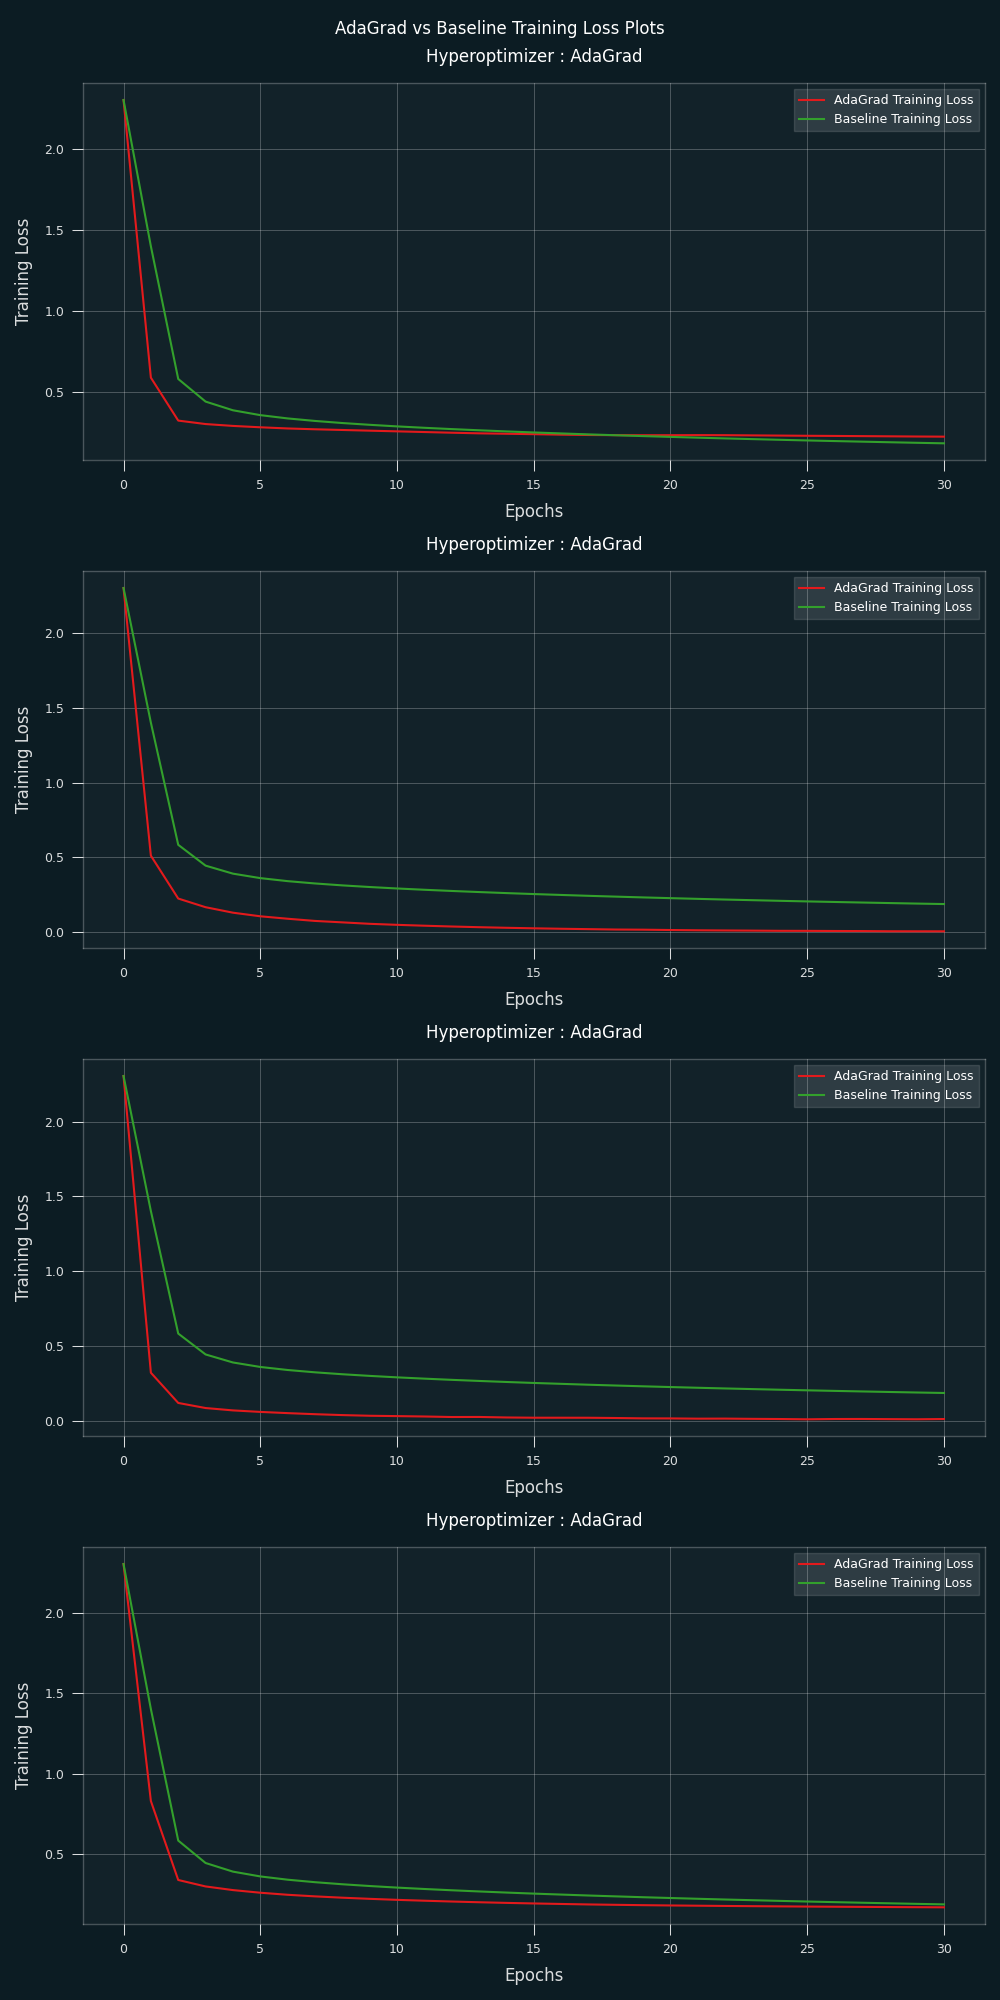
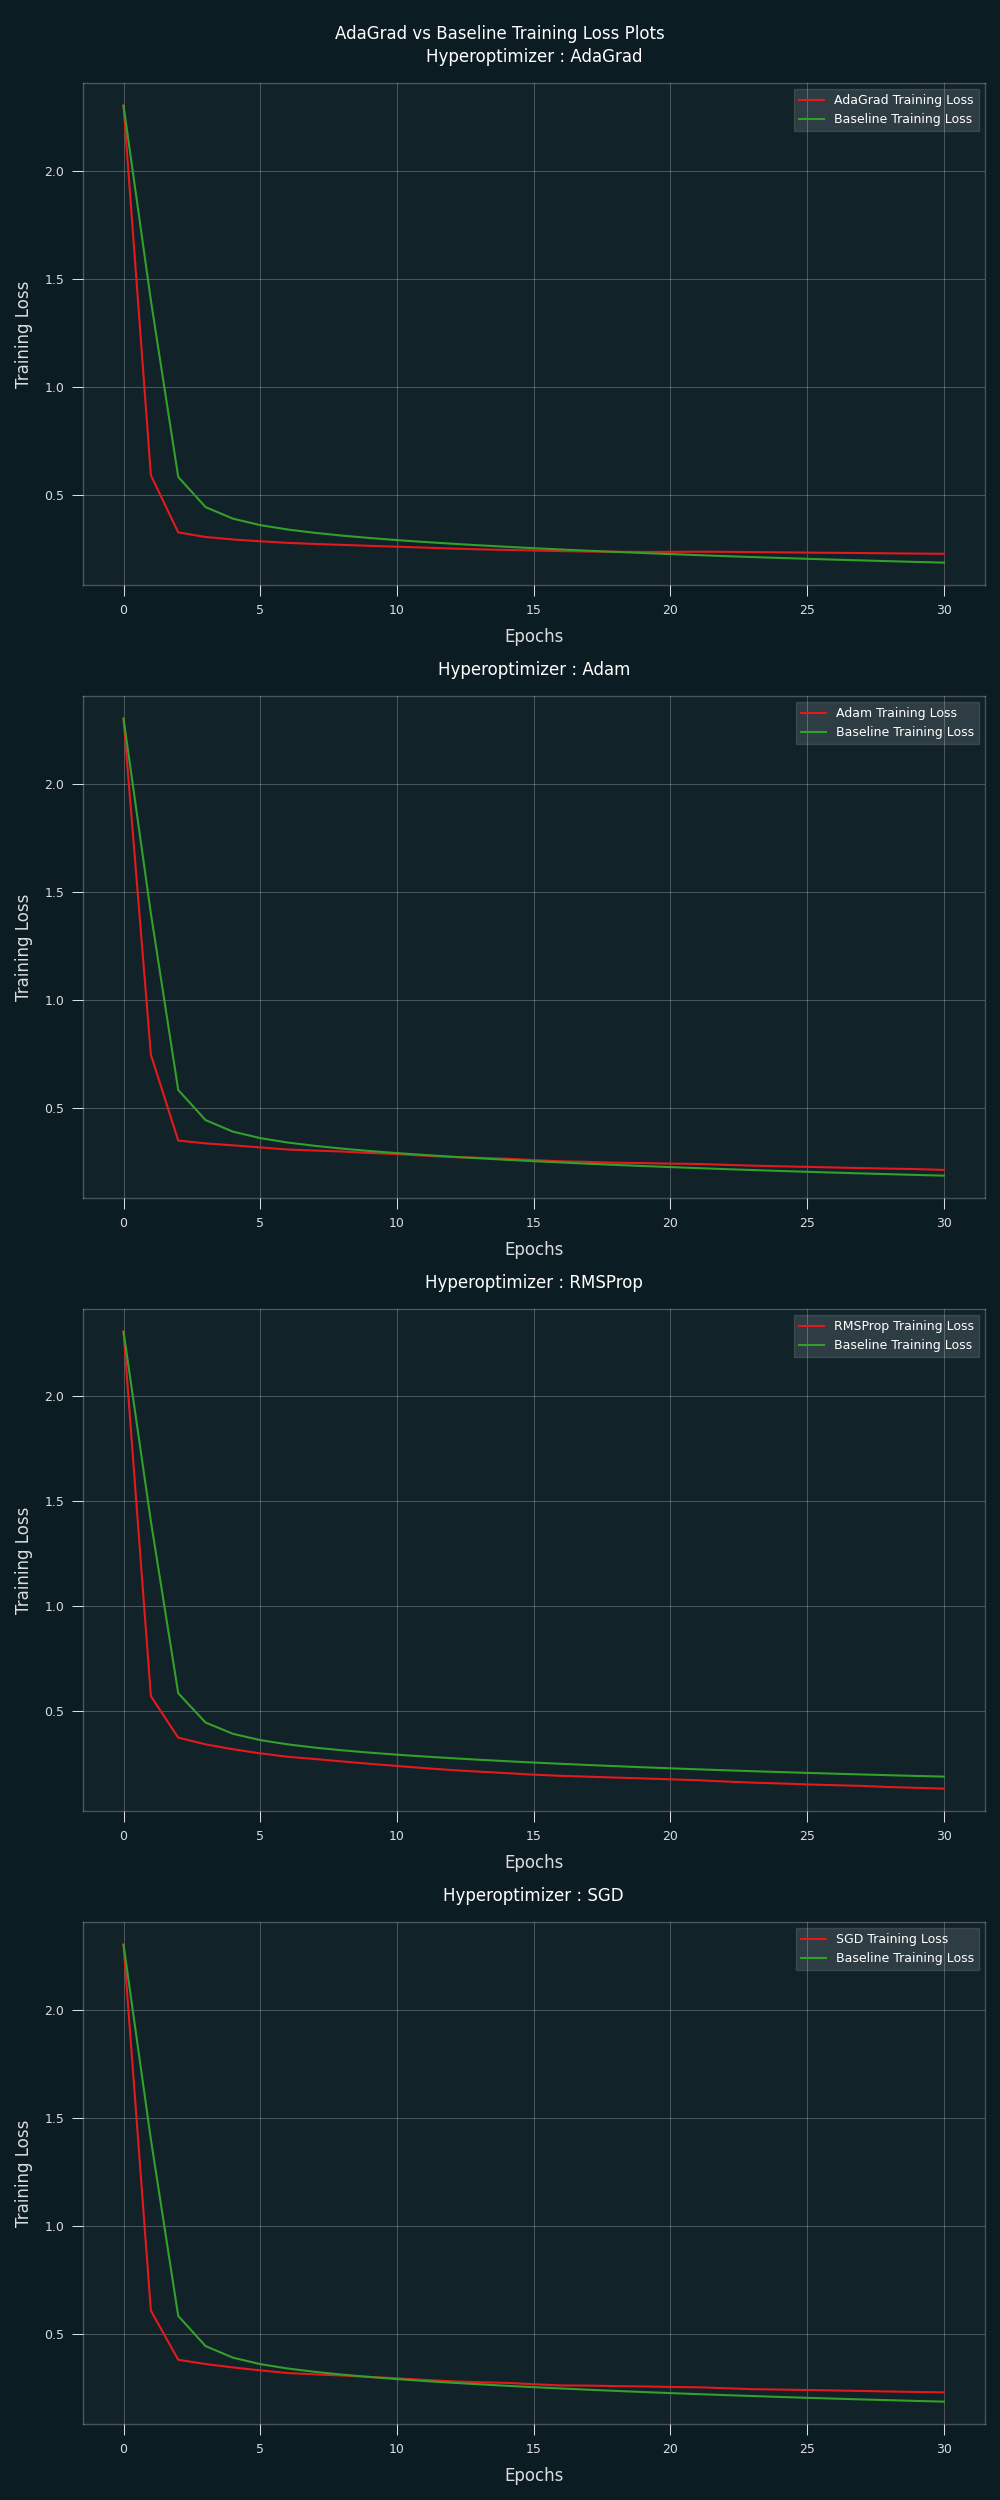
Training Loss Comparative Plots Added

diff --git a/replotting.py b/replotting.py
@@ -301,7 +301,7 @@ def plot_RNN_data(data_dict, model):
     title.set_position([.5, 0.99])
 
     # Show the plot
-    plt.savefig(f'./comparative_plots/{model}/lr_comparisons.png')
+    plt.savefig(f'./comparative_plots/Training_Loss/{model}/lr_comparisons.png')
 
 
 def plot_CNN_data(data_dict, model):
@@ -359,7 +359,7 @@ def plot_CNN_data(data_dict, model):
         title.set_position([.5, 0.99])
 
         # Save the figure
-        plt.savefig(f'./comparative_plots/{model}/alpha_{alpha}_comparisons.png')
+        plt.savefig(f'./comparative_plots/Training_Loss/{model}/alpha_{alpha}_comparisons.png')
 
 
 def plot_NN_data(data_dict, model):
@@ -371,22 +371,24 @@ def plot_NN_data(data_dict, model):
     baseline_loss = training_losses[baseline_index]
 
     # Determine the number of figures based on the number of optimizers
+    optimizer_loop = list(set(optimizers))
     num_optimizers = len(optimizers)
 
     # Iterate over each optimizer
-    for i, optimizer in enumerate(optimizers):
+    for i, optimizer in enumerate(optimizer_loop):
         # Get the indices of hyperoptimizers corresponding to the current optimizer
-        optimizer_indices = [j for j, opt in enumerate(hyperoptimizers) if opt == optimizer]
+        optimizer_indices = [j for j, opt in enumerate(optimizers) if opt == optimizer]
         num_hyperoptimizers = len(optimizer_indices)
 
         # Create subplots for the current optimizer
         mpl_style(dark=True, minor_ticks=False)
-        fig, axes = plt.subplots(num_hyperoptimizers, 1, figsize=(10, 5 * num_hyperoptimizers))
+        fig, axes = plt.subplots(num_hyperoptimizers-1, 1, figsize=(10, 5 * num_hyperoptimizers))
 
         # Iterate over each hyperoptimizer for the current optimizer
-        for j, hyperoptimizer_idx in enumerate(optimizer_indices):
+        j = 0
+        for hyperoptimizer_idx in optimizer_indices:
             # Skip plotting the baseline hyperoptimizer separately
-            if hyperoptimizer_idx == baseline_index:
+            if hyperoptimizers[hyperoptimizer_idx] == 'NoOp':
                 continue
 
             # Get the training loss for the current optimizer and hyperoptimizer
@@ -409,6 +411,7 @@ def plot_NN_data(data_dict, model):
 
             # Add legend to the subplot
             ax.legend()
+            j+=1
 
         title = plt.suptitle(f'{optimizer} vs Baseline Training Loss Plots')
 
@@ -417,7 +420,7 @@ def plot_NN_data(data_dict, model):
         title.set_position([.5, 0.99])
 
         # Save the figure
-        plt.savefig(f'./comparative_plots/{model}/{optimizer}_comparisons.png')
+        plt.savefig(f'./comparative_plots/Training_Loss/{model}/{optimizer}_comparisons.png')
 
 
 def plot_stack_data(data_dict, model):
@@ -453,12 +456,12 @@ def plot_stack_data(data_dict, model):
 
         # Save the figures
         title.set_position([.5, 0.99])
-        plt.savefig(f'./comparative_plots/{model}/alpha_{alpha}.png')
+        plt.savefig(f'./comparative_plots/Training_Loss/{model}/alpha_{alpha}.png')
         plt.close()
 
 
 if __name__ == '__main__':
-    models = ['CharRNN', 'CNN', 'NN', 'stacked_NN']
+    models = ['NN'] #'CharRNN', 'CNN', 'NN', 'stacked_NN']
 
     # define Function Dictionary
     FUNCTION_DICT = {'CharRNN': [get_RNN_data, plot_RNN_data], 'CNN': [get_CNN_data, plot_CNN_data],
